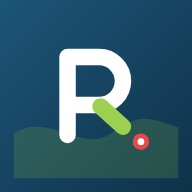
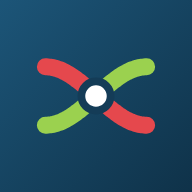
Logótipo só com letra; ícone da app com as duas linhas a cruzarem-se numa paragem

diff --git a/src/components/Logo.tsx b/src/components/Logo.tsx
@@ -1,6 +1,6 @@
 import { useT } from '../i18n'
 
-/** Símbolo do Reguamove: um R cuja perna é o caminho até à paragem. `onDark`: acrescenta um aro claro para fundos escuros. */
+/** Símbolo do Reguamove: duas linhas que se cruzam numa paragem (usado como ícone da app). `onDark`: acrescenta um aro claro para fundos escuros. */
 export function LogoMark({ className = 'h-9 w-9', onDark = false }: { className?: string; onDark?: boolean }) {
   return (
     <svg viewBox="0 0 200 200" className={className} aria-hidden="true" focusable="false">
@@ -9,19 +9,12 @@ export function LogoMark({ className = 'h-9 w-9', onDark = false }: { className?
           <stop offset="0" stopColor="#1c5578" />
           <stop offset="1" stopColor="#0f3249" />
         </linearGradient>
-        <clipPath id="rm-c">
-          <rect width="200" height="200" rx="46" />
-        </clipPath>
       </defs>
       <rect width="200" height="200" rx="46" fill="url(#rm-g)" />
       {onDark && <rect x="3" y="3" width="194" height="194" rx="43" fill="none" stroke="#fff" strokeOpacity=".55" strokeWidth="6" />}
-      <g clipPath="url(#rm-c)">
-        <path d="M-10 150C40 120 80 178 120 150S170 128 210 142V210H-10Z" fill="#7cb342" opacity=".22" />
-      </g>
-      <path d="M62 152V48H104a32 32 0 0 1 0 64H62" fill="none" stroke="#fff" strokeWidth="22" strokeLinecap="round" strokeLinejoin="round" />
-      <path d="M106 114L136 141" fill="none" stroke="#9bd14f" strokeWidth="22" strokeLinecap="round" />
-      <circle cx="160" cy="161" r="11" fill="#e5484d" />
-      <circle cx="160" cy="161" r="4.5" fill="#fff" />
+      <path d="M34.0 138.0 L37.3 137.9 L40.6 137.5 L43.9 137.0 L47.2 136.1 L50.5 135.1 L53.8 133.9 L57.1 132.4 L60.4 130.7 L63.7 128.9 L67.0 126.9 L70.3 124.7 L73.6 122.3 L76.9 119.9 L80.2 117.3 L83.5 114.5 L86.8 111.7 L90.1 108.9 L93.4 105.9 L96.7 103.0 L100.0 100.0 L103.3 97.0 L106.6 94.1 L109.9 91.1 L113.2 88.3 L116.5 85.5 L119.8 82.7 L123.1 80.1 L126.4 77.7 L129.7 75.3 L133.0 73.1 L136.3 71.1 L139.6 69.3 L142.9 67.6 L146.2 66.1 L149.5 64.9 L152.8 63.9 L156.1 63.0 L159.4 62.5 L162.7 62.1 L166.0 62.0" fill="none" stroke="#9bd14f" strokeWidth="22" strokeLinecap="round" />
+      <path d="M34.0 62.0 L37.3 62.1 L40.6 62.5 L43.9 63.0 L47.2 63.9 L50.5 64.9 L53.8 66.1 L57.1 67.6 L60.4 69.3 L63.7 71.1 L67.0 73.1 L70.3 75.3 L73.6 77.7 L76.9 80.1 L80.2 82.7 L83.5 85.5 L86.8 88.3 L90.1 91.1 L93.4 94.1 L96.7 97.0 L100.0 100.0 L103.3 103.0 L106.6 105.9 L109.9 108.9 L113.2 111.7 L116.5 114.5 L119.8 117.3 L123.1 119.9 L126.4 122.3 L129.7 124.7 L133.0 126.9 L136.3 128.9 L139.6 130.7 L142.9 132.4 L146.2 133.9 L149.5 135.1 L152.8 136.1 L156.1 137.0 L159.4 137.5 L162.7 137.9 L166.0 138.0" fill="none" stroke="#e5484d" strokeWidth="22" strokeLinecap="round" />
+      <circle cx="100" cy="100" r="19" fill="#fff" stroke="#143c57" strokeWidth="10" />
     </svg>
   )
 }
@@ -29,12 +22,12 @@ export function LogoMark({ className = 'h-9 w-9', onDark = false }: { className?
 export function Logo({ light = false }: { light?: boolean }) {
   const { t } = useT()
   return (
-    <span className="flex min-w-0 items-center gap-2.5 sm:gap-3">
-      <LogoMark onDark={light} className="h-9 w-9 shrink-0 rounded-[0.65rem] sm:h-10 sm:w-10 sm:rounded-[0.7rem]" />
-      <span className="flex flex-col leading-none">
-        <span className={`font-display text-[1.12rem] font-extrabold tracking-tight sm:text-[1.3rem] ${light ? 'text-white' : 'text-primary'}`}>Reguamove</span>
-        <span className={`mt-1.5 text-[0.5rem] font-semibold uppercase leading-[1.2] tracking-[0.03em] min-[360px]:text-[0.54rem] min-[360px]:tracking-[0.07em] sm:text-[0.6rem] sm:tracking-[0.12em] ${light ? 'text-white/80' : 'text-muted'}`}>{t('brand.sub')}</span>
+    <span className="flex min-w-0 flex-col leading-none">
+      <span className="font-display text-[1.45rem] font-extrabold tracking-tight sm:text-[1.7rem]">
+        <span className={light ? 'text-white' : 'text-primary'}>Regua</span>
+        <span className={light ? 'text-[#9bd14f]' : 'text-[#5f9a2a]'}>move</span>
       </span>
+      <span className={`mt-1.5 text-[0.5rem] font-semibold uppercase leading-[1.2] tracking-[0.03em] min-[360px]:text-[0.54rem] min-[360px]:tracking-[0.07em] sm:text-[0.6rem] sm:tracking-[0.12em] ${light ? 'text-white/80' : 'text-muted'}`}>{t('brand.sub')}</span>
     </span>
   )
 }
